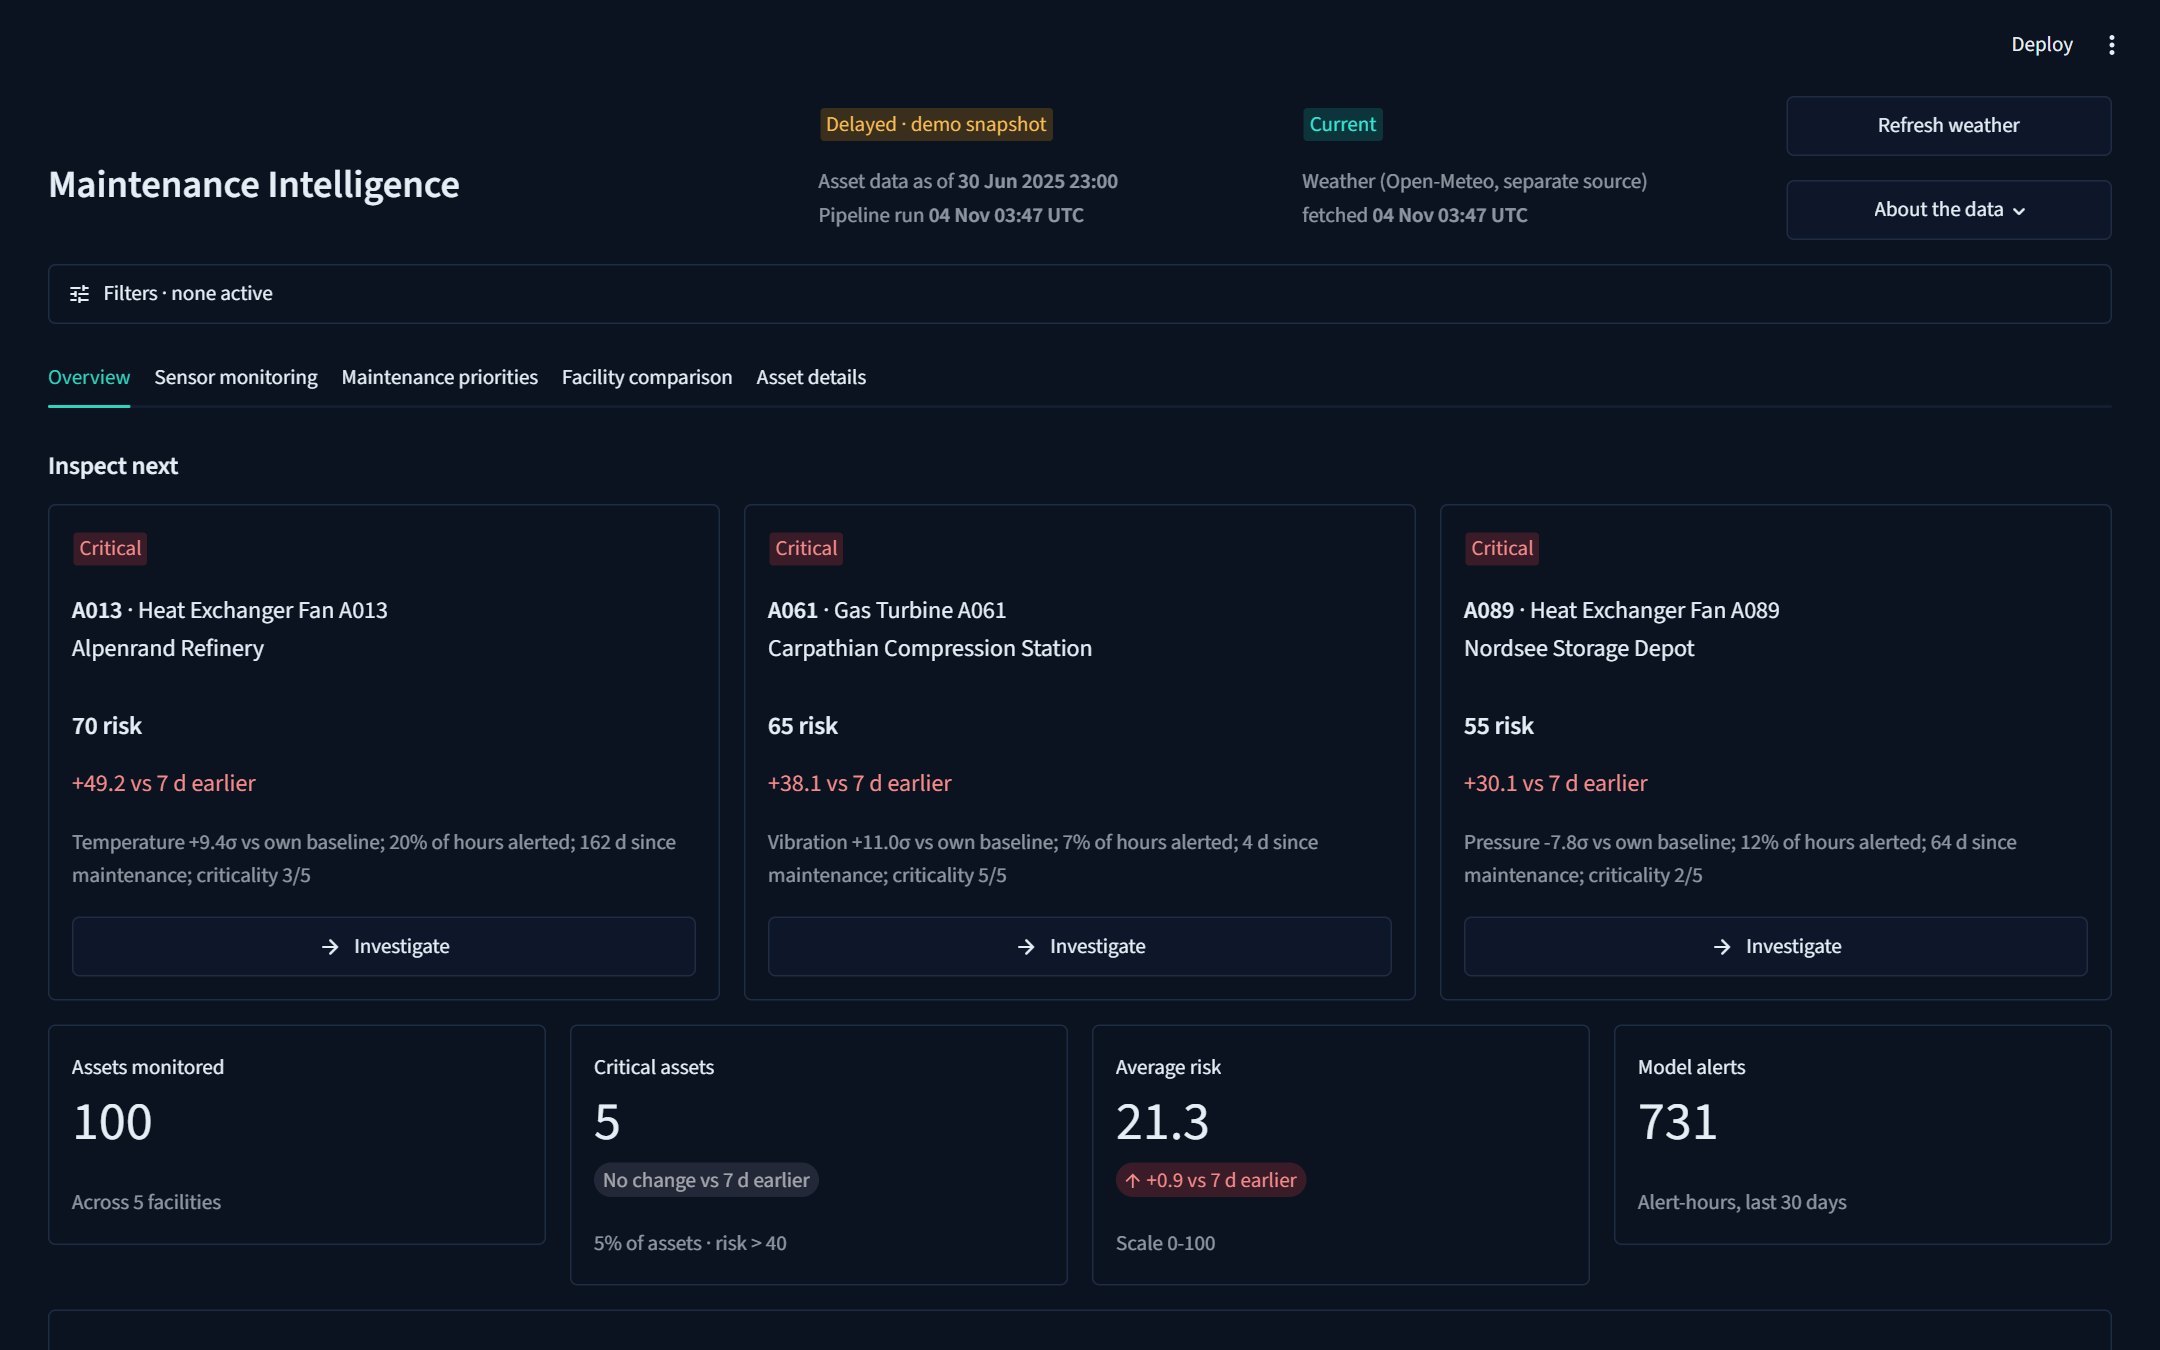
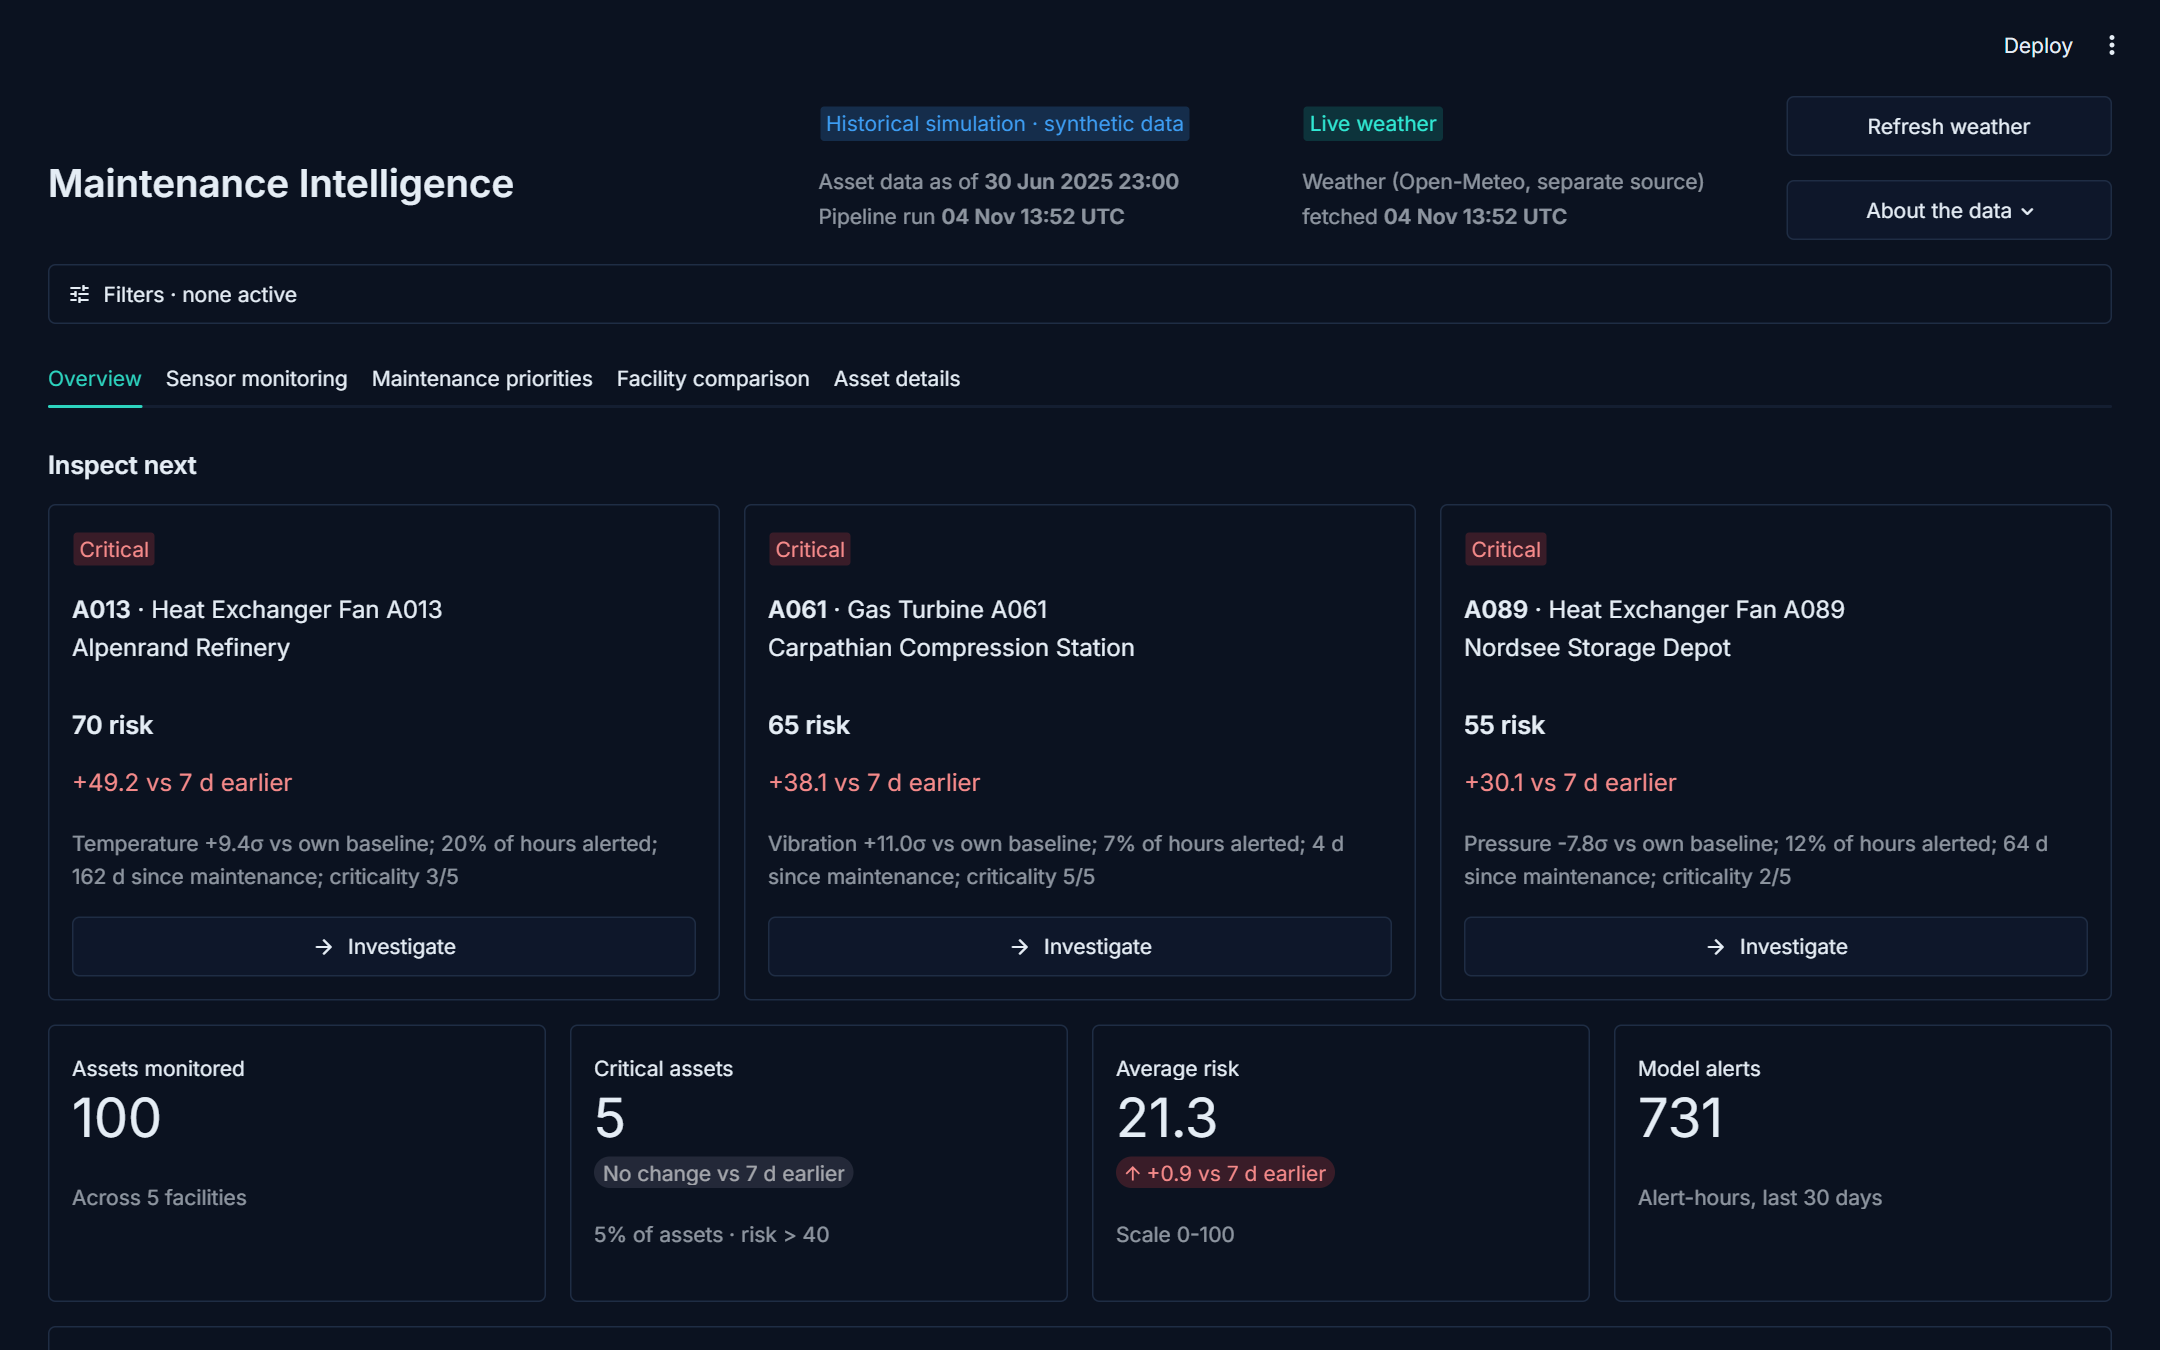
Pre-ship polish: clearer data labels, focused tables, equal KPI cards, heatmap legend

diff --git a/app.py b/app.py
@@ -101,10 +101,10 @@ data_ok = now - LAST.tz_localize("UTC") < pd.Timedelta(hours=2)
 h = st.columns([2, 1.25, 1.25, 0.9], vertical_alignment="center")
 h[0].title("Maintenance Intelligence")
 with h[1]:
-    st.badge("Current" if data_ok else "Delayed · demo snapshot", color="green" if data_ok else "orange")
+    st.badge("Live data" if data_ok else "Historical simulation · synthetic data", color="green" if data_ok else "blue")
     st.caption(f"Asset data as of **{LAST:%d %b %Y %H:%M}**  \nPipeline run **{synced:%d %b %H:%M UTC}**")
 with h[2]:
-    st.badge("Current" if not live_df.empty else "Sync failed", color="green" if not live_df.empty else "red")
+    st.badge("Live weather" if not live_df.empty else "Sync failed", color="green" if not live_df.empty else "red")
     st.caption("Weather (Open-Meteo, separate source)  \n" + (f"fetched **{fetched:%d %b %H:%M UTC}**" if not live_df.empty else "live feed unavailable"))
 with h[3]:
     if st.button("Refresh weather", width="stretch", help="Re-fetches live weather. Asset data is a fixed synthetic snapshot."):
@@ -114,7 +114,8 @@ with h[3]:
         st.markdown("**Asset data is fully synthetic** (100 fictional assets, 5 fictional facilities).  \n"
                     f"**Weather:** live conditions from the Open-Meteo forecast API; model history from the Open-Meteo archive "
                     f"({'/'.join(sorted(D['weather'].weather_source.unique()))}).  \n"
-                    "**Alerts** = hours flagged by the Isolation Forest. **Critical** = risk score > 40 (Warning 25-40, Normal < 25).")
+                    "**Alerts** = hours flagged by the Isolation Forest. **Critical** = risk score > 40 (Warning 25-40, Normal < 25).  \n"
+                    "**Sharing:** the page address holds your filters, tab and selected asset. Copy it to share this exact view.")
 
 # ---- Shareable view: filters and asset live in the URL (?site=..&type=..&period=7&date=2025-06-20&asset=A061)
 qp = st.query_params
@@ -177,16 +178,16 @@ with tabs[0]:
             ("Critical assets", n_crit, f"{n_crit / len(T):.0%} of assets · risk > 40", None if n_crit_prev is None else ("No change vs 7 d earlier" if n_crit_prev == n_crit else f"{n_crit - n_crit_prev:+d} vs 7 d earlier")),
             ("Average risk", f"{T.risk.mean():.1f}", "Scale 0-100", None if avg_prev is None else f"{T.risk.mean() - avg_prev:+.1f} vs 7 d earlier"),
             ("Model alerts", f"{n_alerts:,}", f"Alert-hours, last {period} days", None)]):
-        with col.container(border=True):
+        with col.container(border=True, height=185):
             st.metric(lbl, val, delta, delta_color="off" if delta and delta.startswith("No change") else "inverse", delta_arrow="off" if delta and delta.startswith("No change") else "auto")
             st.caption(sub)
     with st.container(border=True):
         st.subheader("Maintenance priorities")
         top = T.head(10).reset_index(drop=True)
         ss["prio_ids"] = list(top.asset_id)
-        table(tint(top.assign(rank=top.index + 1)[["rank", "asset_id", "asset_name", "facility", "driver_label", "peak_z", "risk", "change", "status"]], ["status"]),
+        table(tint(top.assign(rank=top.index + 1)[["asset_id", "asset_type", "facility", "driver_label", "risk", "change", "status"]], ["status"]),
                            hide_index=True, width="stretch", on_select=lambda: open_asset("prio"), selection_mode="single-row", key="prio", alt="Top 10 maintenance priorities, ranked by risk score. Select a row to open the asset.", column_config={
-            "rank": st.column_config.NumberColumn("#", width="small"), "asset_id": "Asset ID", "asset_name": "Equipment", "facility": "Facility",
+            "asset_id": st.column_config.TextColumn("Asset", width="small"), "asset_type": "Equipment", "facility": st.column_config.TextColumn("Facility", width="large"),
             "driver_label": "Main driver", "peak_z": st.column_config.NumberColumn("Peak deviation (σ)", format="%+.1f"),
             "risk": st.column_config.NumberColumn("Risk score (0-100)", format="%.0f"), "change": st.column_config.NumberColumn("Change vs 7 d", format="%+.1f"), "status": "Severity"})
         st.caption("Ranked by risk score. Select a row to open that asset in Asset details.")
@@ -218,6 +219,7 @@ with tabs[0]:
         show(px.imshow(hm, text_auto=".0f", color_continuous_scale=SCALE, zmin=15, zmax=45, aspect="auto",
                                   labels={"color": "Avg risk", "x": "", "y": ""})
                         .update_xaxes(side="top").update_layout(height=H, coloraxis_showscale=False, margin=dict(l=0, r=0, t=0, b=0)), width="stretch")
+        st.caption("Cell colour = average risk: teal below 25, amber 25 to 40, red above 40.")
 
     with st.container(border=True):
         st.subheader("Live conditions at facilities")
@@ -244,20 +246,21 @@ with tabs[1]:
     a = c[0].selectbox("Asset", list(T.asset_id), format_func=lambda x: f"{x} · {T.set_index('asset_id').asset_name[x]}", key="m")
     s = c[1].selectbox("Sensor", ["All"] + SENSORS)
     truth = c[2].toggle("Show simulated fault periods", False, help="Orange bands mark the faults injected into the synthetic data. They are evaluation labels, not model output.")
+    st.caption(f"{(as_of - pd.Timedelta(days=period)):%d %b} to {as_of:%d %b %Y}. Red dots are hours when the model flagged the asset as a whole (all four sensors together), so they appear on every chart, even where that sensor looks normal.")
     show(sensor_fig(a, SENSORS if s == "All" else [s], as_of - pd.Timedelta(days=period), as_of, truth), alt=f"Sensor readings for {a} over the last {period} days with model alerts")
-    st.caption("Red dots are hours when the model flagged the asset as a whole (all four sensors together), so they appear on every chart, even where that sensor looks normal. Standby hours read low.")
+    st.caption("Standby hours read low.")
 
 with tabs[2]:
     n = int(st.columns([1, 4])[0].number_input("Show top N assets", 1, len(T), min(15, len(T)), help=f"Shows the N highest-risk assets after filtering ({len(T)} match). Type a number or use +/-."))
     top = T.head(n)
-    cols = ["asset_id", "asset_type", "facility", "criticality", "driver_label", "peak_z", "risk", "change", "status", "explanation"]
+    cols = ["asset_id", "asset_type", "facility", "driver_label", "peak_z", "risk", "change", "status", "explanation"]
     ss["prio2_ids"] = list(top.asset_id)
     table(tint(top[cols].reset_index(drop=True), ["status"]), width="stretch", hide_index=True, height=min(740, 38 + 35 * n), on_select=lambda: open_asset("prio2"), selection_mode="single-row", key="prio2", alt="Maintenance priorities with driver, deviation, risk, severity and explanation. Select a row to open the asset.", column_config={
-        "asset_id": "Asset", "asset_type": "Type", "facility": "Facility", "criticality": "Criticality", "status": "Status",
+        "asset_id": st.column_config.TextColumn("Asset", width="small"), "asset_type": "Equipment", "facility": st.column_config.TextColumn("Facility", width="large"), "status": "Status",
         "driver_label": "Main driver", "peak_z": st.column_config.NumberColumn("Peak deviation (σ)", format="%+.1f"), "change": st.column_config.NumberColumn("Change vs 7 d", format="%+.1f"),
         "explanation": st.column_config.TextColumn("Why", width="large"),
         "risk": st.column_config.NumberColumn("Risk (0-100)", format="%.1f")})
-    st.download_button("Download ranking (CSV)", top[cols].to_csv(index=False), "maintenance_priorities.csv")
+    st.download_button("Download ranking (CSV)", top[cols + ["criticality"]].to_csv(index=False), "maintenance_priorities.csv")
     st.caption("Select a row to open that asset in Asset details. risk = 100 × (0.5·sensor deviation + 0.3·alert share + 0.2·maintenance overdue) × criticality multiplier (0.7–1.0)")
 
 with tabs[3]:
@@ -276,6 +279,7 @@ with tabs[3]:
         show(px.imshow(pv.rename(index=lambda s: s.split()[0], columns=lambda s: s.replace(" ", "<br>", 1)), text_auto=True, color_continuous_scale=SCALE, zmin=15, zmax=45,
                        labels={"color": "Avg risk", "x": "", "y": ""}, aspect="auto").update_traces(textfont_color="#0b1220")
              .update_xaxes(side="top", tickangle=0).update_layout(height=H, coloraxis_showscale=False, margin=dict(l=0, r=0, t=40, b=0)), alt="Average risk for each facility and equipment type")
+        st.caption("Cell colour = average risk of the assets in that cell: teal below 25, amber 25 to 40, red above 40.")
     table(g.sort_values(["critical", "avg_risk"], ascending=False).round(2), alt="Facility summary: average risk, critical and warning assets, share of hours alerted", hide_index=True, column_config={
         "facility": "Facility", "avg_risk": st.column_config.NumberColumn("Average risk", format="%.1f"), "critical": "Critical", "warning": "Warning",
         "alert_share": st.column_config.NumberColumn("Share of hours alerted", format="percent"), "assets": "Assets"})
@@ -291,12 +295,12 @@ with tabs[4]:
     a = st.selectbox("Asset", list(T.asset_id), format_func=lambda x: f"{x} · {T.set_index('asset_id').asset_name[x]}", key="d")
     row = T.set_index("asset_id").loc[a]
     with st.container(border=True):
-        c = st.columns([1, 2.4, 1, 1])
+        st.markdown(f"**{row.asset_name}** · {row.facility}")
+        c = st.columns(3)
         c[0].metric("Risk score", f"{row.risk:.1f}", None if pd.isna(row.change) else f"{row.change:+.1f} vs 7 d earlier", delta_color="inverse")
         c[0].markdown(TAG[row.level])
-        c[1].metric("Facility", row.facility)
-        c[2].metric("Criticality", f"{row.criticality}/5")
-        c[3].metric("Installed", int(row.install_year))
+        c[1].metric("Criticality", f"{row.criticality}/5")
+        c[2].metric("Installed", int(row.install_year))
     st.markdown(f"**Why flagged.** {row.explanation}.")
     w7 = R[(R.asset_id == a) & (R.timestamp > as_of - WEEK) & (R.timestamp <= as_of)]
     if not w7.empty:
